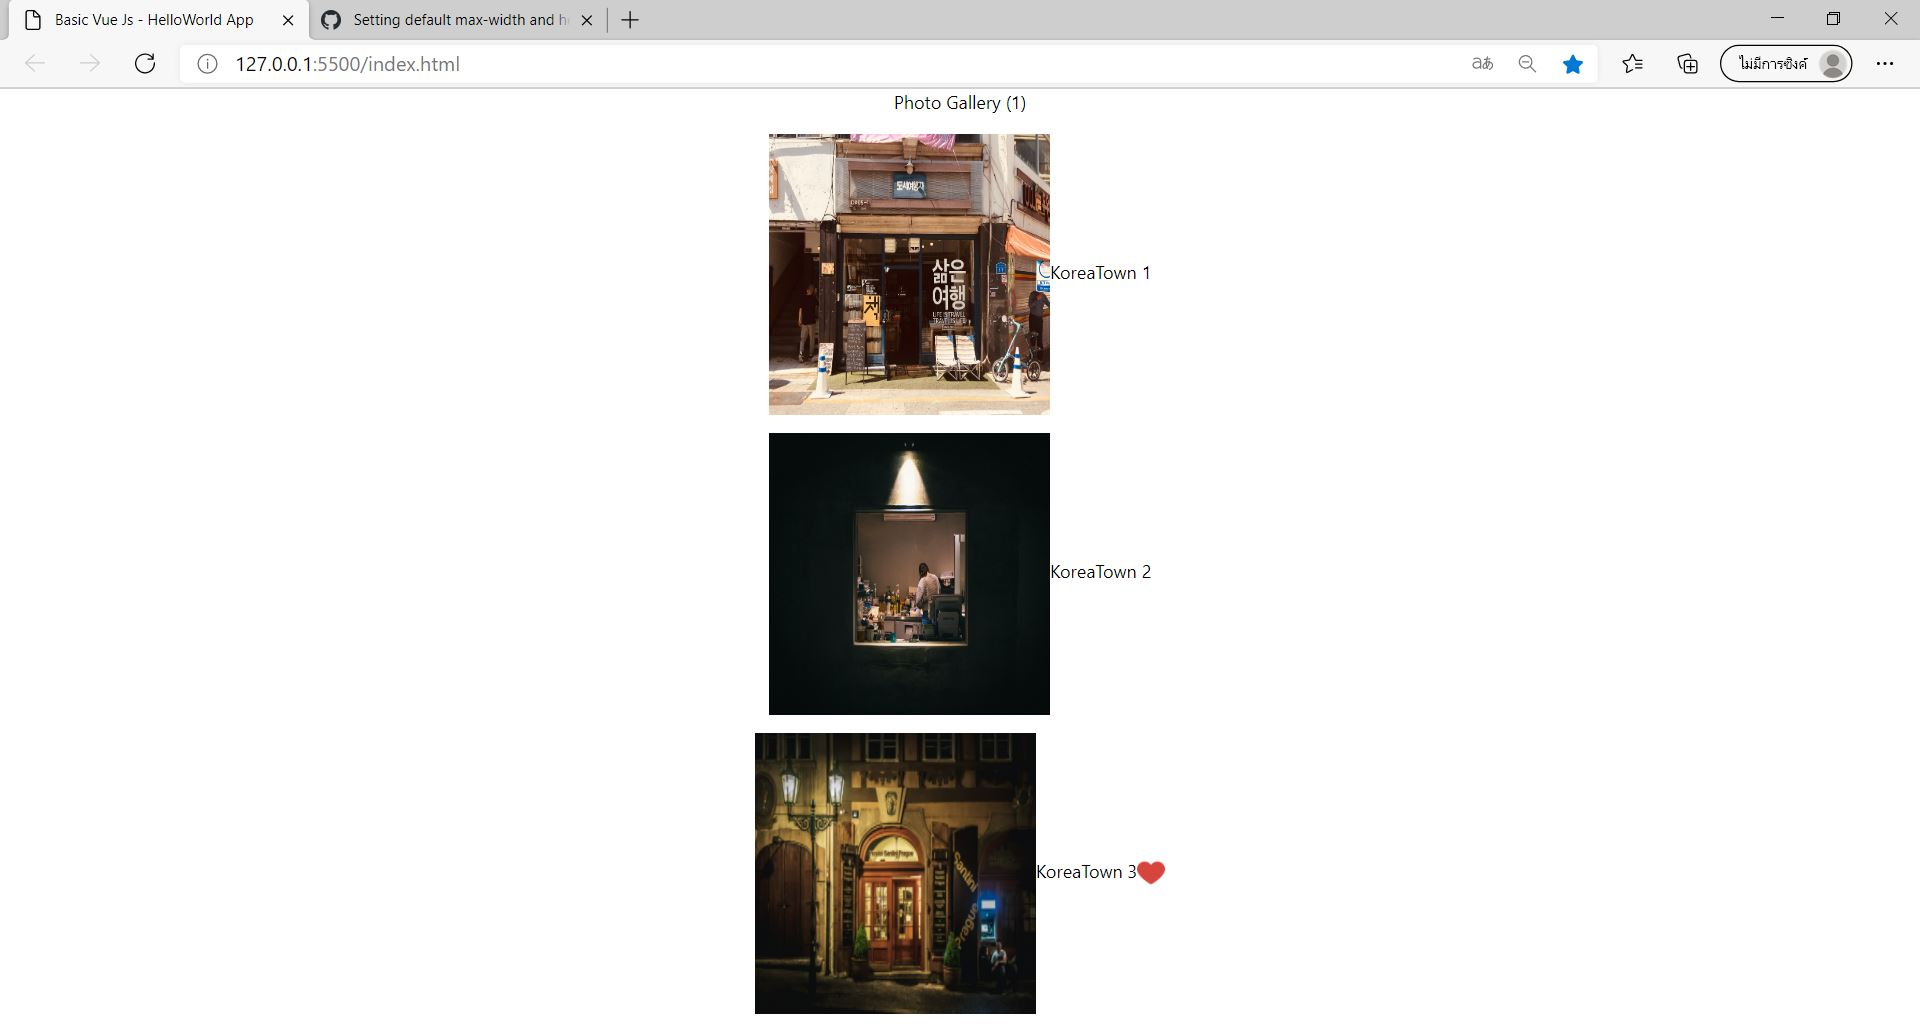
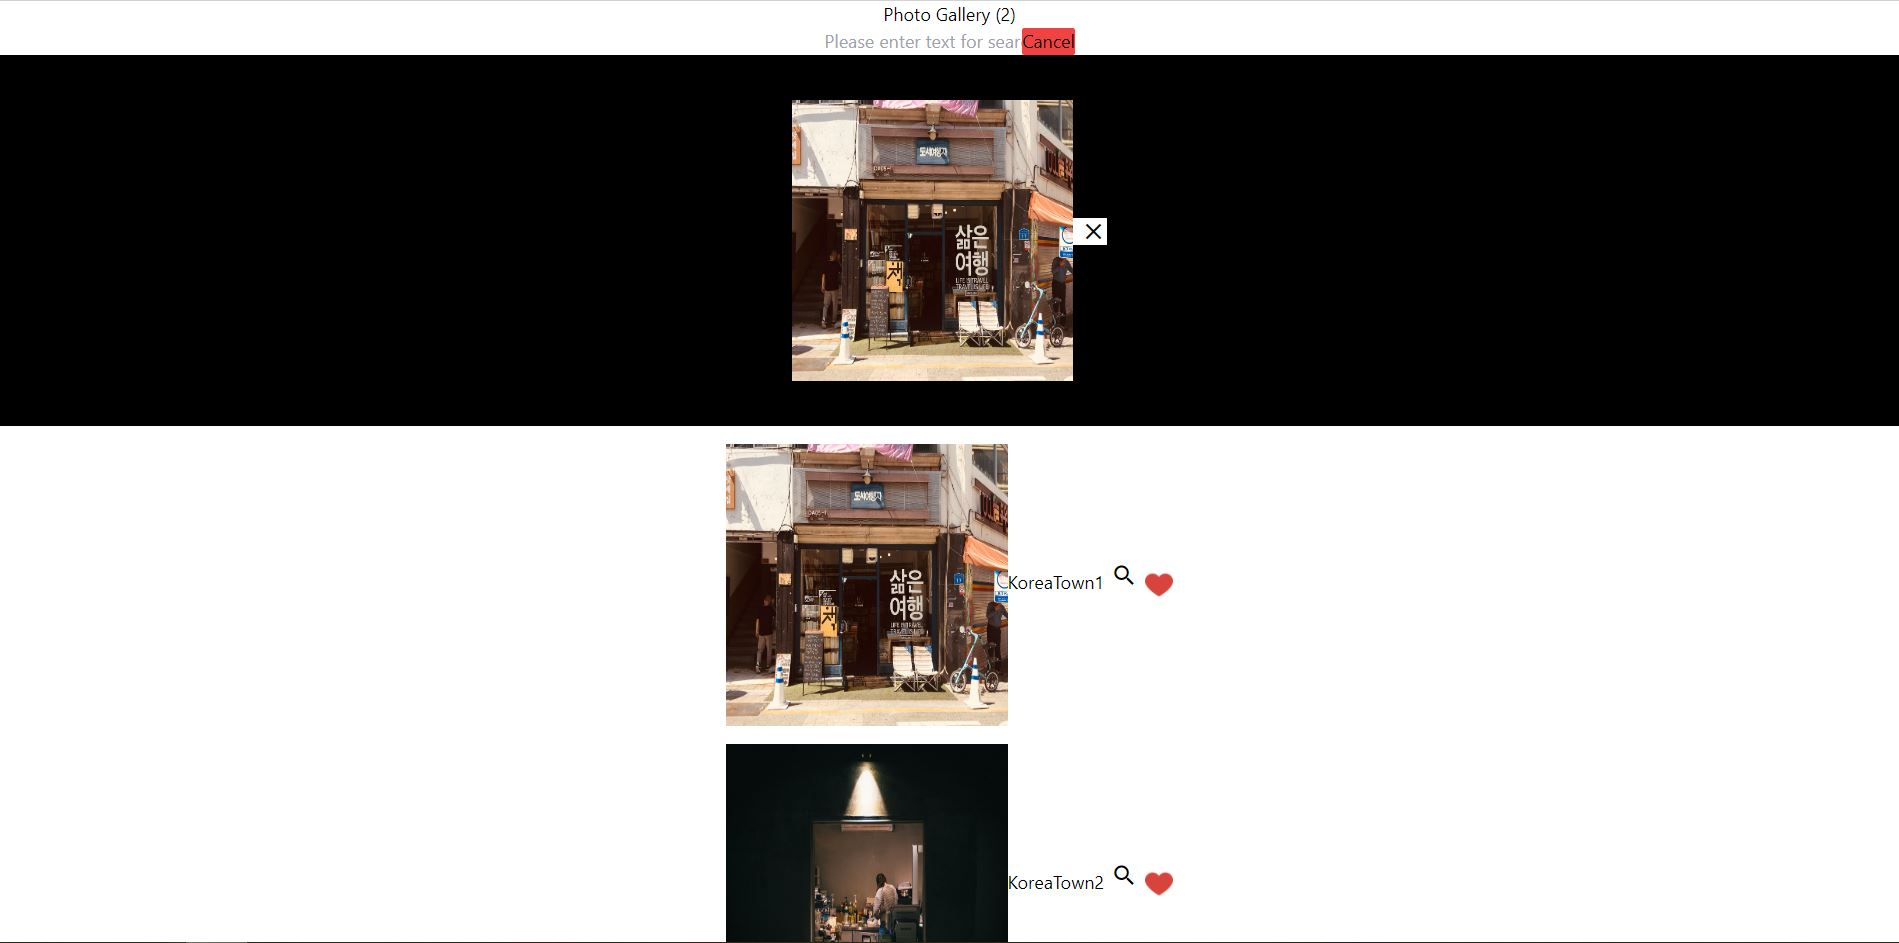
[UPDATE] function

diff --git a/62130500065_groupwork_4/main.js b/62130500065_groupwork_4/main.js
@@ -2,22 +2,75 @@ const app = {
     data() {
         return {
             items: [
-                { message: 'KoreaTown 1',Love:true,img:"./images/1.jpg"}, 
-            {  message: 'KoreaTown 2',Love:true,img:"./images/2.jpg"  },
-            {  message: 'KoreaTown 3',Love:false,img:"./images/3.jpg"  }]
+                { message: 'KoreaTown1',Love:true,img:"./images/1.jpg"}, 
+            {  message: 'KoreaTown2',Love:true,img:"./images/2.jpg"  },
+            {  message: 'KoreaTown3',Love:false,img:"./images/3.jpg"  }]
+            ,search:false,
+            backupitems : [
+                { message: 'KoreaTown1',Love:true,img:"./images/1.jpg"}, 
+            {  message: 'KoreaTown2',Love:true,img:"./images/2.jpg"  },
+            {  message: 'KoreaTown3',Love:false,img:"./images/3.jpg"  }],
+            searchText:'',
+            imageshow: [{img:''
+            ,Check:false,index:''}]
         }},
+        
+
+
+        
         methods:{
             toogleLove(index){
-                this.items[index].Love = !this.items[index].Love}
+                this.backupitems[index].Love = !this.backupitems[index].Love},
+            SearchG(){
+                this.search = !this.search
+                this.backupitems = [...this.items]
+            },
+            CancelT(){
+                this.searchText =''
+                this.backupitems = this.items
+                console.log(this.backupitems[0])
+                console.log(this.items[0])
+            },
+            toogleImage(index){ 
+                if(this.imageshow.index == index){
+                    this.imageshow.Check = false 
+                    this.imageshow.img = this.items[index].img;     
+                    this.imageshow.index = -1  
+                }
+                else{
+                    this.imageshow.Check = true
+                    this.imageshow.index = index
+                    this.imageshow.img = this.items[index].img;
+                }
+               
+            },
+            toFlase(){
+                    this.imageshow.Check = false;
+                    this.imageshow.index = -1 
+            }
         }
         ,
         computed:{
             countUnLove(){
-                return this.items.filter( t => t.Love ).length
+                return this.backupitems.filter( t => t.Love ).length
+            },
+            letbitem(){
+                
             }
 
+        },
+        watch : {
+            searchText : function() {
+                this.backupitems = this.items
+                console.log(this.searchText)
+                const query =  this.searchText.toLowerCase()
+                this.backupitems = this.backupitems.filter(backupitems => backupitems.message.toLowerCase().search(query) > -1)
+                this.haveResult = this.backupitems.length > 0 
+            }
+        },
         }   
-        }
+      
+        
         
     
 

diff --git a/62130500065_groupwork_4/index.html b/62130500065_groupwork_4/index.html
@@ -42,6 +42,7 @@
     width: 25px;
     height: 25px;
   }
+  
   </style>
 
 </head>
@@ -50,17 +51,39 @@
 
   <div id="app" class="">
     <h2 class="text-center">Photo Gallery ({{ countUnLove }})</h2>
-    <ul v-for="(item,index) in items "class="justify-self-stretch text-center m-4">
+    <div class="flex justify-center">
+      <div class="inline">
+        <input type="text" v-model="searchText"   placeholder="Please enter text for searching photos" v-show="search" 
+       />
+      </div>
+      
+      <button type="submit" v-if="search === true" v-on:click="SearchG(),CancelT()" class="bg-red-500 hover:bg-red-700">Cancel</button> 
+    <span class="material-icons  search inline" v-on:click="SearchG" v-if="search === false">
+      search
+    </span>
+    </div>
+    <div v-if="imageshow.Check"  class="justify-self-stretch text-center p-10 bg-black">
+    <img v-bind:src="imageshow.img" class="inline">
+    <span @click="toFlase()" class="material-icons inline bg-white hover\:bg-gray-100">
+      clear
+      </span>
+  </div>
+    <ul v-for="(item,index) in backupitems "class="justify-self-stretch text-center m-4">
+      
       <li class="inline p-10 py-28" v-on:click="toogleLove(index)">
       <img v-bind:src="item.img" class="inline">
       <p class="inline" v-html="item.message"  class="space-x-4">
         {{ item.message}}                 
       </p>
+      <span class="material-icons inline" @click="toogleImage(index) ">
+        search
+        </span>
       <img class="heart inline" src="./images/heart.png" v-show="item.Love">
     </li>  
-
       
     </ul>
+    
+    
   </div>
  
 
